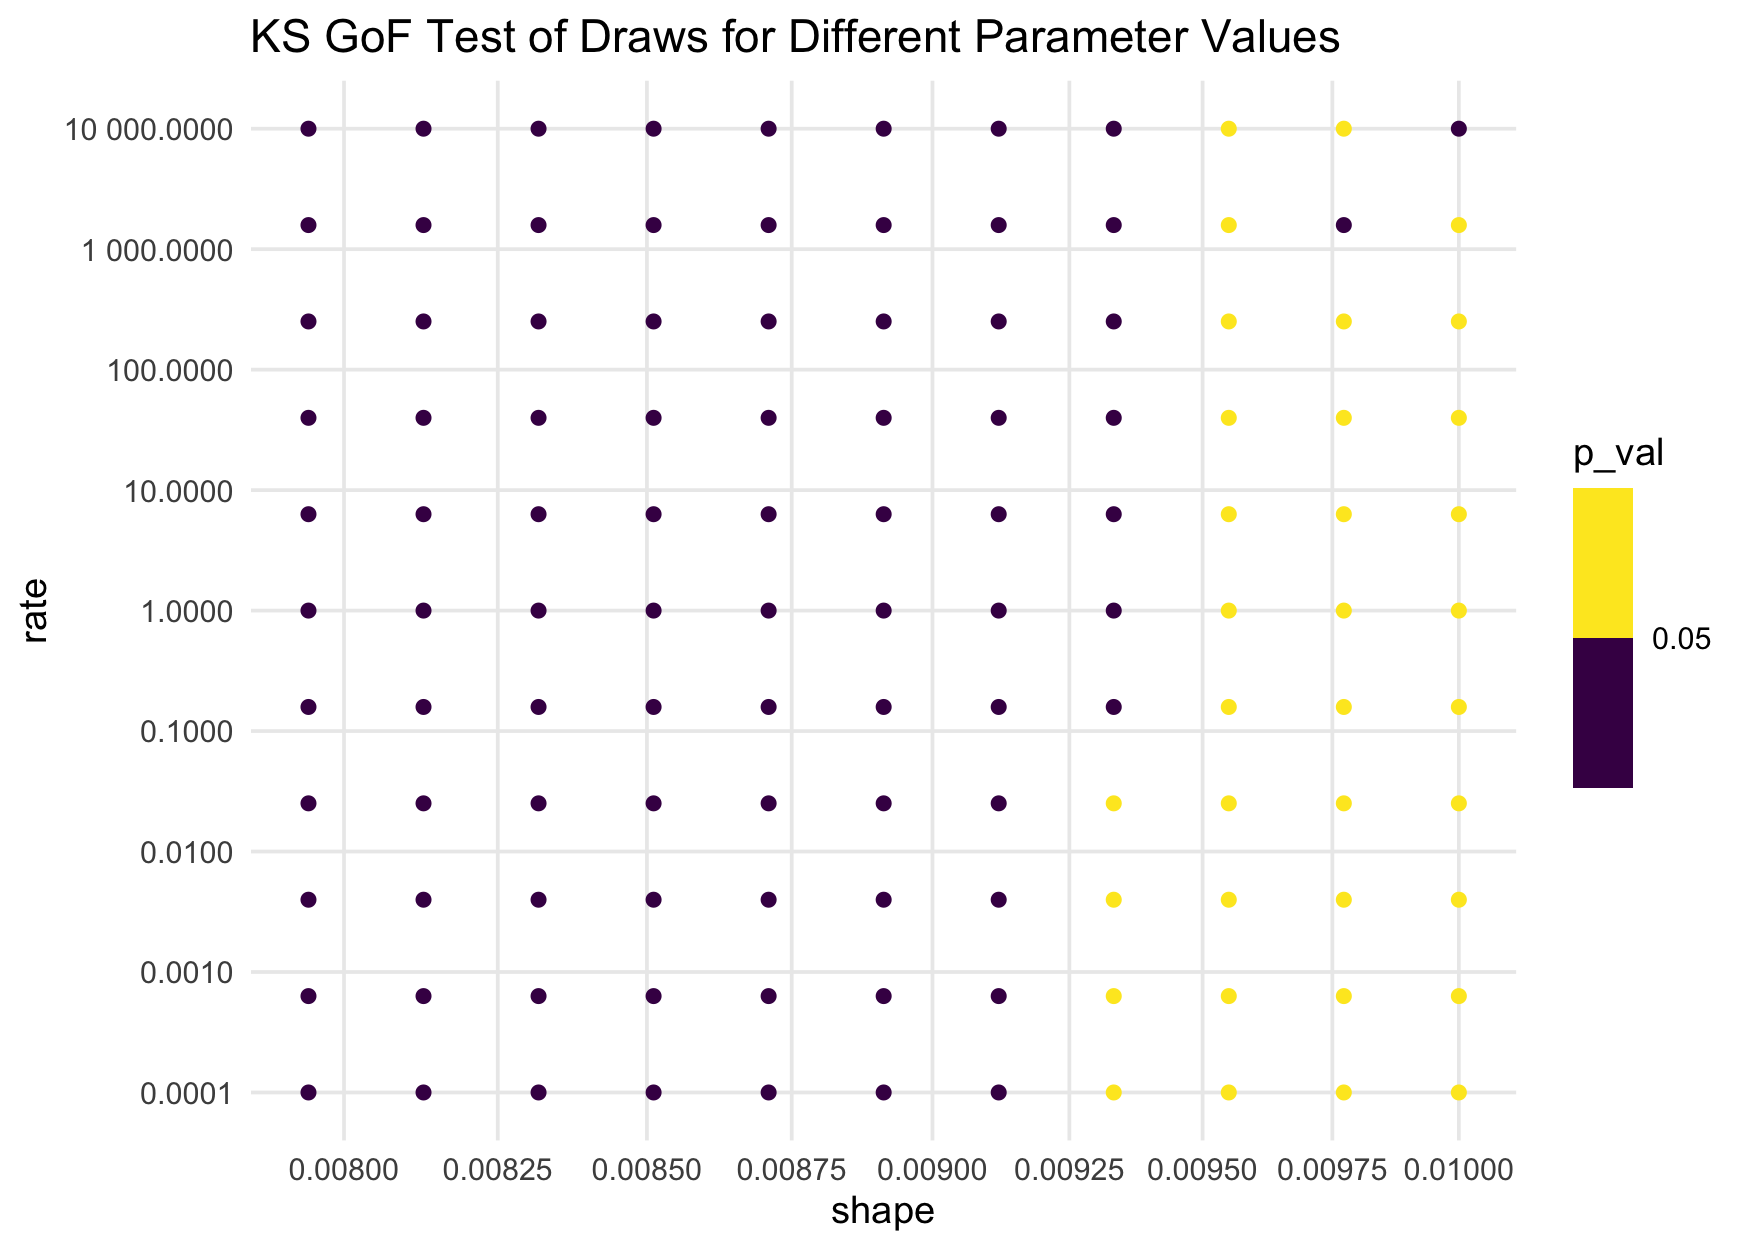
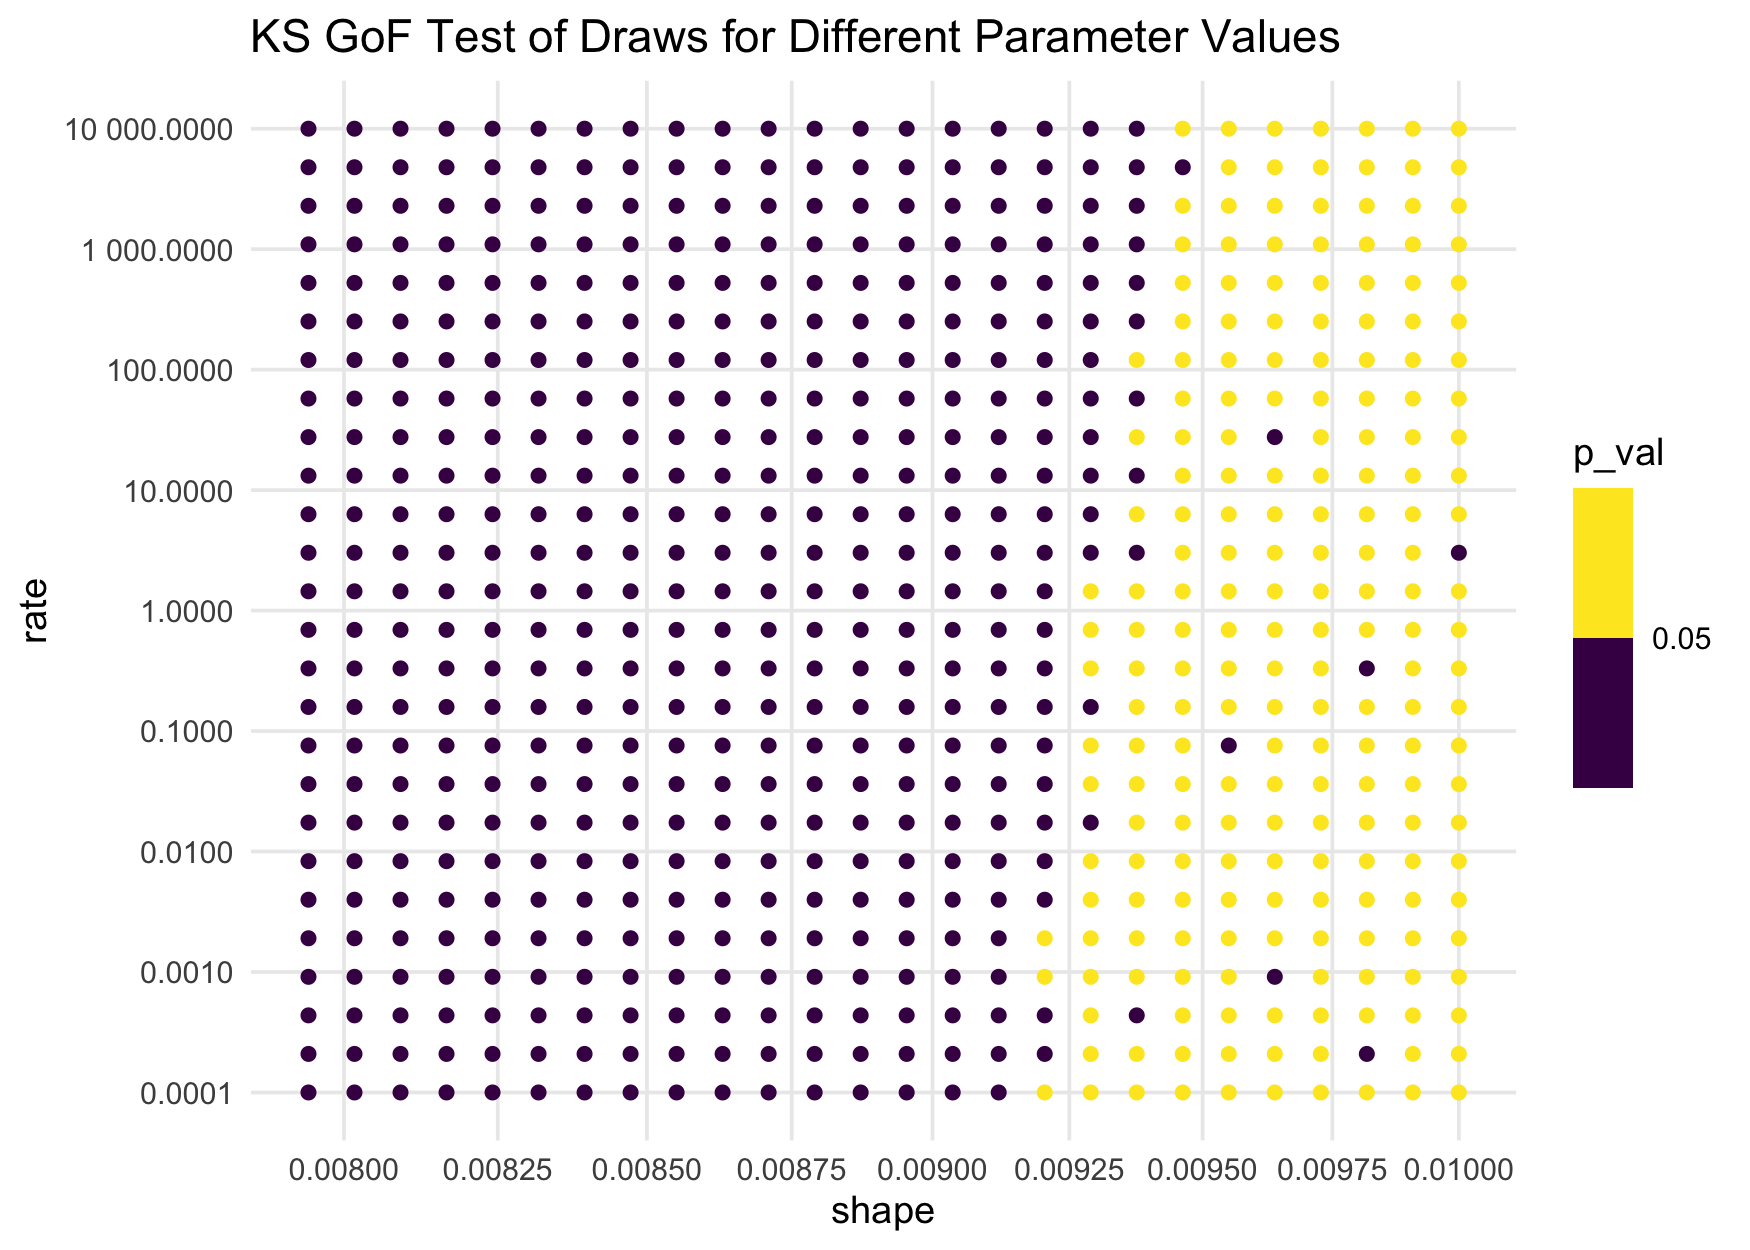
bump readme sims

Changed region(s): [[0.1543, 0.0936, 0.864, 0.9048]]

diff --git a/README.md b/README.md
@@ -208,23 +208,23 @@ library("tidyverse"); library("scales")
 theme_set(theme_minimal())
 theme_update(panel.grid.minor = element_blank())
 
-N <- 11
+N <- 26
 param_vals <- 10^seq(-4, 4, length.out = N)
 (param_grid <- expand_grid(shape = param_vals, rate = param_vals))
-#  # A tibble: 121 × 2
-#      shape        rate
-#      <dbl>       <dbl>
-#   1 0.0001    0.0001  
-#   2 0.0001    0.000631
-#   3 0.0001    0.00398 
-#   4 0.0001    0.0251  
-#   5 0.0001    0.158   
-#   6 0.0001    1       
-#   7 0.0001    6.31    
-#   8 0.0001   39.8     
-#   9 0.0001  251.      
-#  10 0.0001 1585.      
-#  # ℹ 111 more rows
+#  # A tibble: 676 × 2
+#      shape     rate
+#      <dbl>    <dbl>
+#   1 0.0001 0.0001  
+#   2 0.0001 0.000209
+#   3 0.0001 0.000437
+#   4 0.0001 0.000912
+#   5 0.0001 0.00191 
+#   6 0.0001 0.00398 
+#   7 0.0001 0.00832 
+#   8 0.0001 0.0174  
+#   9 0.0001 0.0363  
+#  10 0.0001 0.0759  
+#  # ℹ 666 more rows
 ```
 
 Here’s what the experiment’s design space looks like:
